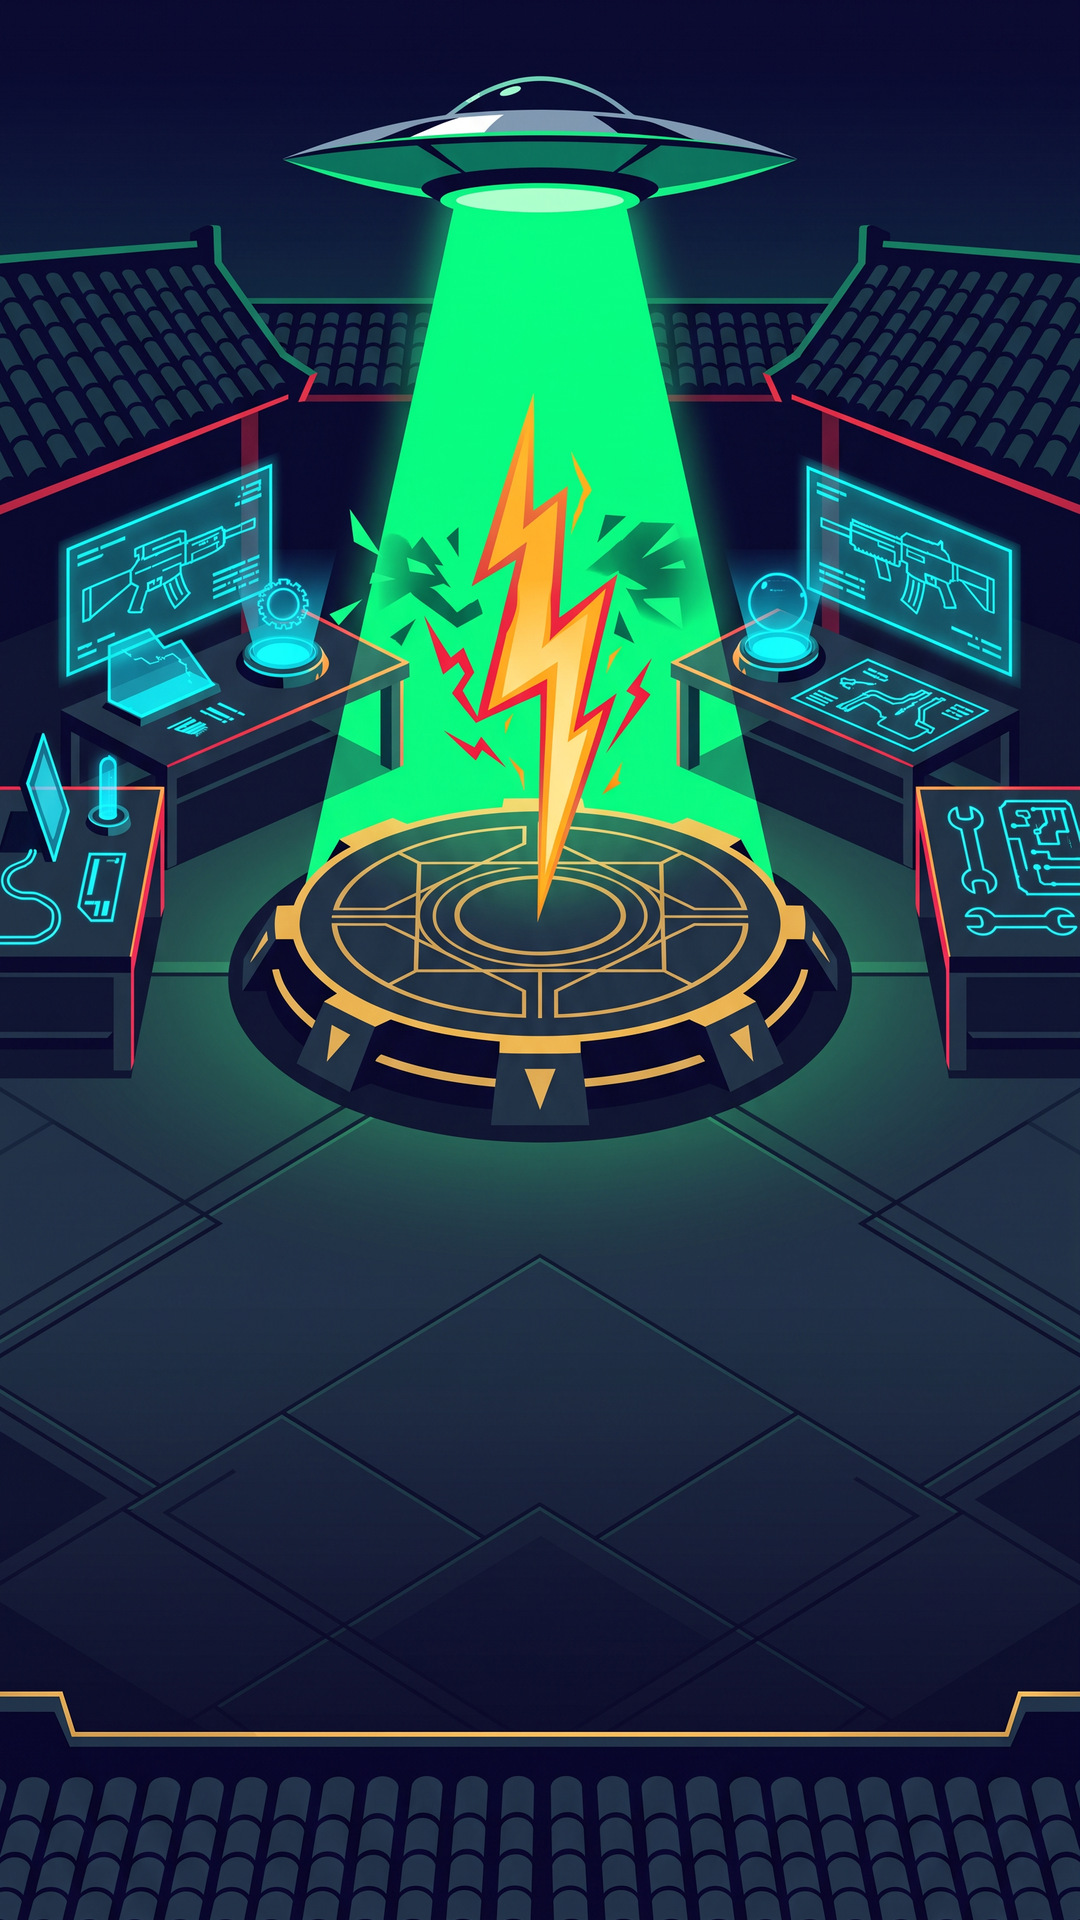
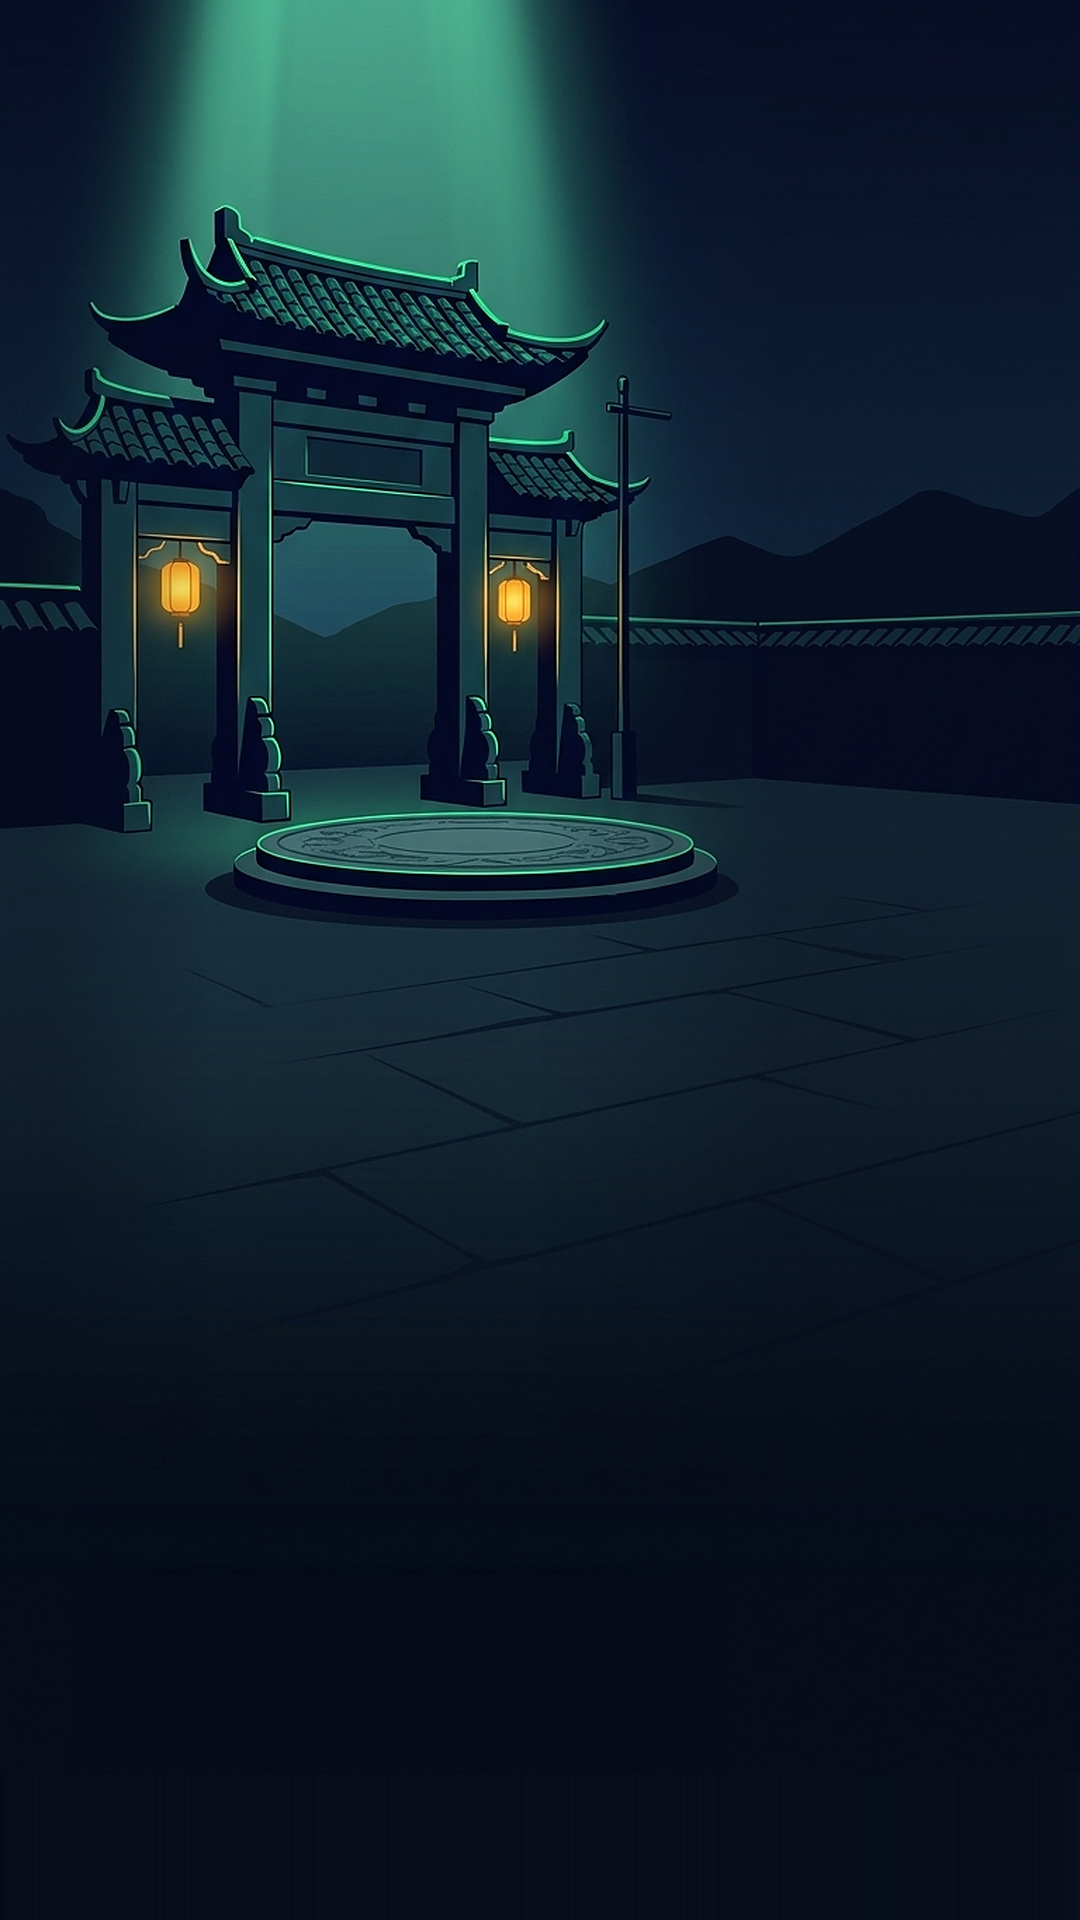
art(ui): 重制村长页面背景为04风格村口石台夜色院落（去电子屏与两侧干扰）

diff --git a/Assets/Scripts/Game/HomeScreen.cs b/Assets/Scripts/Game/HomeScreen.cs
@@ -1644,14 +1644,8 @@ namespace Liangshan
 
         void BuildForge(bool anim)
         {
-            Cover("forge_bg", new Vector2(1080, 1920), Color.white, 0.25f);
-            var fbg = _page.Find("body/bg") as RectTransform ?? _page.Find("bg") as RectTransform;
-            if (fbg != null)
-            {
-                fbg.sizeDelta *= 1.16f;
-                fbg.anchoredPosition += new Vector2(0, 138f);
-            }
-            Shade(0.24f, 0f);
+            Cover("forge_bg", new Vector2(1080, 1920), Color.white, 0.5f);
+            Shade(0.16f, 0f);
             float sp = Ui.Spare;
             Action re = () => Rebuild(false);
 
